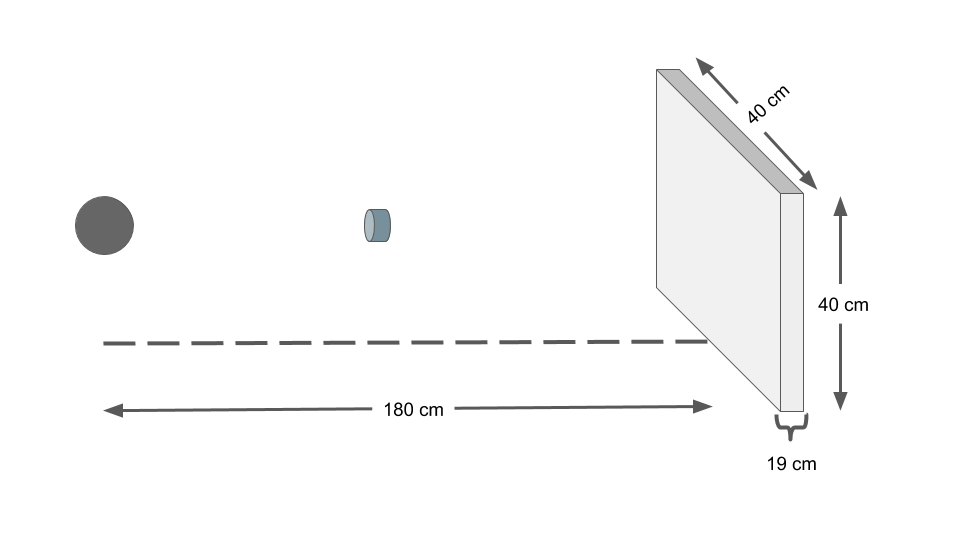
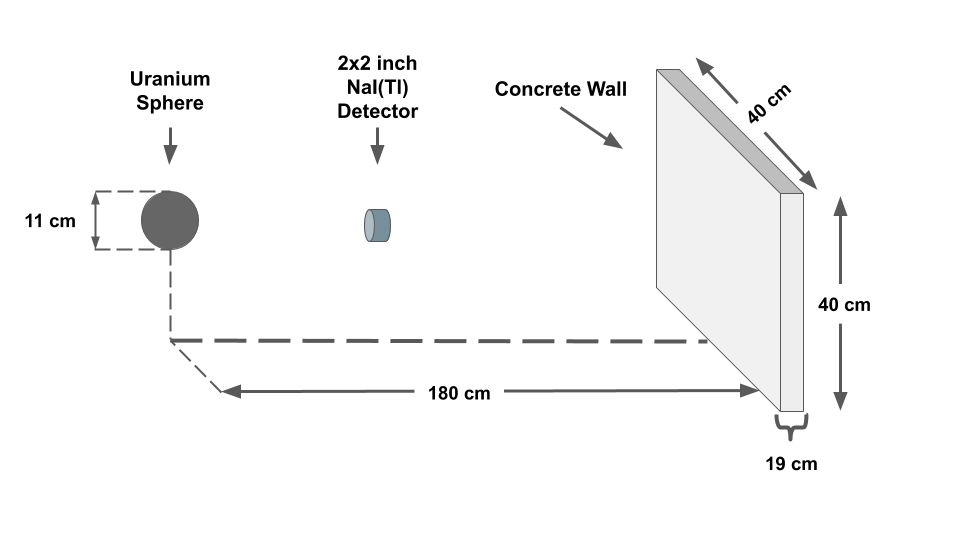
update diagram

diff --git a/uranium_enrichment_res_disc.tex b/uranium_enrichment_res_disc.tex
@@ -11,21 +11,26 @@ This chapter applies machine learning algorithms to measuring the $^{235}$U enri
 
 \section{Uranium Enrichment Measurement Background}
 
-Verifying the enrichment of HEU through passive nondestructive analysis is important for nuclear safeguard applications and homeland security tasks. Passive nondestructive analysis, such as gamma-ray spectroscopy, is preferred to more accurate destructive methods due to its ability to operate quickly, preserve forensic evidence, and allow for remote measurements. The enriched uranium gamma-ray signatures visible in low-resolution detectors come from the decay of $^{238}$U, $^{235}$U, $^{232}$U, and the daughters of these isotopes. An example of a 27\% enriched uranium spectrum where $^{238}$U and $^{235}$U photopeaks are clear is shown in Figure \ref{fig:enriched_u_peaks_displayed}. In low-resolution detectors, The primary photopeaks from $^{235}$U are at 144 keV, 163 keV, and 186 keV. The $^{238}$U daughter $^{234m}$Pa produces two main photopeaks at 766 keV and 1001 keV. $^{232}$U, only present in reprocessed uranium, produces a photopeak at 2.6 MeV from its $^{208}$Tl daughter.
+Verifying the enrichment of HEU through passive nondestructive analysis is important for nuclear safeguard applications and homeland security tasks. Passive nondestructive analysis, such as gamma-ray spectroscopy, is preferred to more accurate destructive methods due to its ability to operate quickly, preserve forensic evidence, and allow for remote measurements. The enriched uranium gamma-ray signatures visible in low-resolution detectors come from the decay of $^{238}$U, $^{235}$U, $^{232}$U, and the daughters of these isotopes. Figure \ref{fig:enriched_u_peaks_displayed} shows an example of a 27\% enriched uranium spectrum that displays $^{238}$U and $^{235}$U photopeaks. In low-resolution detectors, The primary photopeaks from $^{235}$U are at 144 keV, 163 keV, and 186 keV. The $^{238}$U daughter $^{234m}$Pa produces two main photopeaks at 766 keV and 1001 keV. $^{232}$U, only present in reprocessed uranium, produces a photopeak at 2.6 MeV from its $^{208}$Tl daughter.
 
 \begin{figure}[H]
 	\centering
 	\includegraphics[width=0.8\linewidth]{images/enriched_u_peaks_displayed}
-	\caption{27\% enriched uranium spectra measured with a NaI detector.}.
+	\caption{27\% enriched uranium spectrum measured with a NaI detector.}.
 	\label{fig:enriched_u_peaks_displayed}
 \end{figure}
 
-Traditionally, the enrichment meter method is used to measure uranium enrichment in NaI spectra \cite{Reilly1970}. This method exploits the proportionality between the activity of the 186 keV photon and the enrichment of $^{235}$U. The enrichment meter method works by finding calibration constants that relate counts in two ROI's,
+Traditionally, the enrichment meter method is used to measure uranium enrichment in NaI spectra \cite{Reilly1970}. This method exploits the proportionality between the activity of the 186 keV photon and the enrichment of $^{235}$U. The enrichment meter method works by finding calibration constants that relate counts in two ROIs,
 %
-\begin{equation} \label{eq:enrichment_meter_principle}
-E = A * ROI1 + B * ROI2,
-\end{equation}
+\begin{align} \label{eq:enrichment_meter_principle}
+E &= A  C_{ROI1} + B C_{ROI2} \nonumber \\
+\text{where } C_{ROI1} &= \text{counts in ROI1 [\# counts]} \nonumber \\
+C_{ROI2} &= \text{counts in ROI2 [\# counts]} \nonumber \\
+A &= \text{calibration constant} \nonumber \\
+B &= \text{calibration constant} \nonumber \\
+\end{align}
 %
+
 to the enrichment of the measured material. These ROIs are placed around the 186 keV peak and in the background region to the right of the peak. Finding these constants requires measuring two different uranium enrichment standards in the same configuration (shielding, scattering environment, source-detector distance). Once these calibration constants are measured, they can only be used in the same configuration as the reference standards. It is possible to extend this method to other shielding configurations, but this introduces a risk of adding systematic errors. An automated version of this method called NaIGEM (NaI Gamma Enrichment Measurements) is included in the HM-5 instrument used by the IAEA \cite{MORTREAU2004}. Enrichment measurements of uranium without contaminants using low-resolution detectors can achieve 1\% precision for arbitrary enrichments while  contamination by minor uranium isotopes have a biasing effect of 5-10\% \cite{SPRINKLE1997}. Measurements of materials with unknown enrichment, shielding, and geometry are typically performed with high resolution HPGe detectors using the Multi-Group Analysis for Uranium (MGAU) software \cite{MGAU1994}.
 
 % Measuring uranium enrichment with a NaI detector in an unknown configuration is difficult.
@@ -51,7 +56,7 @@ To investigate how well a machine learning algorithm can learn to perform uraniu
 
 \subsection{Training Dataset Details}
 
-A coupled MCNP (Monte Carlo N-Particle Transport Code) and GADRAS-DRF code was used to simulate the spectrum from each uranium isotope uniformly distributed in a solid uranium sphere of radius 5.5 cm. The MCNP code was used to calculate the physics due to self attenuation in the uranium and GADRAS-DRF was used to model the gamma-ray spectrum from this source in a 2'' x 2'' NaI detector. The universe in the MCNP simulation, shown in Figure \ref{fig:mcnp_diagram}, was empty except for a 19 cm concrete block fixed at 180 cm from the origin, a 5.5 cm radius sphere of bare uranium fixed at the origin, and a bare 2'' x 2'' NaI cylinder located between them. The concrete block was added to include backscatter radiation from the source in the MCNP simulation. A total of 10$^{8}$ particles were simulated for each configuration.
+A coupled MCNP (Monte Carlo N-Particle Transport Code) and GADRAS-DRF code was used to simulate the spectrum from each uranium isotope uniformly distributed in a solid uranium sphere of radius 5.5 cm. The MCNP code was used to calculate the physics due to self attenuation in the uranium and GADRAS-DRF was used to model the gamma-ray spectrum from this source in a 2'' x 2'' NaI detector. The universe in the MCNP simulation, shown in Figure \ref{fig:mcnp_diagram}, was empty except for a 19 cm concrete block fixed at 180 cm from the origin, a 5.5 cm radius sphere of bare uranium fixed at the origin, and a bare 2'' x 2'' NaI cylinder located between them. The concrete block was added to incorporate backscatter radiation in the MCNP simulation. A total of 10$^{8}$ particles were simulated for each configuration.
 
 \begin{figure}[H]
 	\centering
